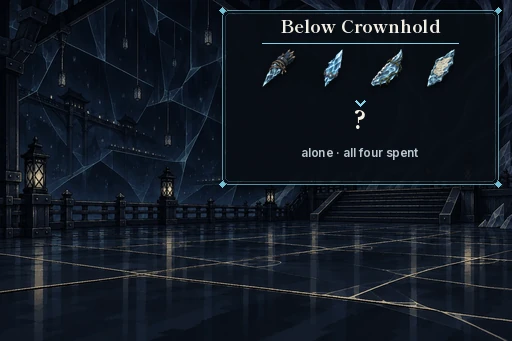
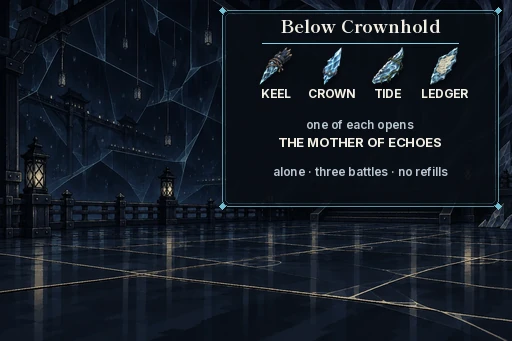
Skyglass boards Nov 13: 10-topic menu, Shore work, The Closing Hold, Below Crownhold (director approved 20:21Z)

Changed region(s): [[0.4062, 0.1466, 1.0, 0.6158], [0.8125, 0.1466, 0.9375, 0.2933], [0.5, 0.1466, 0.5938, 0.2933]]

diff --git a/art/skyglass_thread/compose_boards.py b/art/skyglass_thread/compose_boards.py
@@ -46,6 +46,8 @@ BASES = {  # board -> scene art (repo path)
     "token": SC + "exterior_keel_walk.webp",
     "salvage": SC + "cache_site.webp",
     "driftline": SC + "exterior_keel_walk.webp",
+    "shore": SC + "exterior_keel_walk.webp",
+    "closing": SC + "lower_hull.webp",
     "logboard": "crownhold/scenes/exports/scene_bg_crownhold_planning_hall.webp",  # PLACEHOLDER: TP03 Information Board
     "orders": "crownhold/scenes/exports/scene_bg_crownhold_planning_hall.webp",    # PLACEHOLDER: TP03
 }
@@ -62,6 +64,7 @@ ICON = {
     "crown": MOE + "crown.webp", "tideshard": MOE + "tide.webp", "ledgershard": MOE + "ledger.webp",
     "log": "skyglass_journal/exports/icon-quest-watch-log.webp",
     "treasury": EV + "sealed-treasury.webp", "cargo": EV + "unmarked-cargo.webp", "pouch": EV + "tool-pouch-katon.webp",
+    "nursery": EV + "glass-nursery-bk.webp",  # the Chart of the Closing Hold uses this icon (hullbound_mender.gen.py CHART_ICON)
     "jar": EV + "little-horrors-jar.webp", "salvage": EV + "wreck-salvage-bk.webp", "filament": "ghost_ship_skyglass/icon_ghost_ship_skyglass_filament.webp",
     "crystal": "ghost_ship_skyglass/icon_ghost_ship_skyglass_crystal.webp",
     "fragment": "ghost_ship_skyglass/icon_ghost_ship_skyglass_crown_fragment.webp",
@@ -142,10 +145,10 @@ class Board:
 
 
 # --- the boards (captions: one or two words, 12 px or larger) ---------------------------------------------------------
-def b_menu(b):
+def b_menu(b):  # Nov 13 v3: 10 topics (director approved 20:21Z)
     b.panel(title="Ask the salvager")
-    b.row(["log", "tide", "chest", "seal"], 46, 38, ["ABOARD", "CHARTS", "CHESTS", "DEEP"], gap=22)
-    b.row(["ledger", "salvage", "token", "log"], 126, 38, ["HAUL", "SALVAGE", "TRADE", "THE LOG"], gap=22)
+    b.row(["log", "tide", "chest", "seal", "ledger"], 48, 34, ["ABOARD", "CHARTS", "CHESTS", "DEEP", "HAUL"], gap=18)
+    b.row(["nursery", "keel", "salvage", "token", "log"], 126, 34, ["MENDER", "BELOW", "SALVAGE", "TRADE", "THE LOG"], gap=18)
 
 
 def b_threes(b):
@@ -265,12 +268,29 @@ def b_shards(b):
     b.text(b.mx, 136, "Wreck · Crownhold · deep · Haul", 12, MUTED, "Inter-600")
 
 
-def b_below(b):
-    b.panel(y1=184, title="Below Crownhold")
-    b.row(["keel", "crown", "tideshard", "ledgershard"], 48, 40, gap=14)
-    b.chevron(b.mx, 102)
-    b.big(b.mx, 110, "?", 26)
-    b.text(b.mx, 148, "alone · all four spent", 12, MUTED, "Inter-600")
+def b_below(b):  # Nov 13 v2 (director approved 20:21Z)
+    b.panel(y1=206, title="Below Crownhold")
+    b.row(["keel", "crown", "tideshard", "ledgershard"], 46, 40, ["KEEL", "CROWN", "TIDE", "LEDGER"], gap=16)
+    b.text(b.mx, 120, "one of each opens", 12, MUTED, "Inter-600")
+    b.text(b.mx, 138, "THE MOTHER OF ECHOES", 13)
+    b.text(b.mx, 166, "alone · three battles · no refills", 12, MUTED, "Inter-600")
+
+
+def b_shore(b):  # Nov 13 (director approved 20:21Z)
+    b.panel(y1=206, title="Shore work")
+    b.chip("salvage", b.mx - 20, 42, 40)
+    for i, s in enumerate(["ECHOES ASHORE · 4 fights", "WARM GLASS · the pools", "THE TIDELINE COUNT · one duel"]):
+        b.text(b.mx, 96 + i * 20, s, 12)
+    b.text(b.mx, 162, "from level 30 · 3 a day each", 12, MUTED, "Inter-600")
+    b.text(b.mx, 180, "4 salvage a run", 12, MUTED, "Inter-600")
+
+
+def b_closing(b):  # Nov 13 (director approved 20:21Z)
+    b.panel(y1=196, title="The Closing Hold")
+    b.chip("nursery", b.mx - 26, 42, 52)
+    b.text(b.mx, 110, "LEGENDARY · ALONE · FROM LEVEL 40", 12)
+    b.text(b.mx, 132, "apprentice · bilge crew · the Mender", 12, MUTED, "Inter-600")
+    b.text(b.mx, 158, "watch the seams: the hull closes in", 12, MUTED, "Inter-600")
 
 
 def b_trade(b):
@@ -329,10 +349,26 @@ BOARDS = {
     "menu": b_menu, "threes": b_threes, "hulls": b_hulls, "loot": b_loot, "once": b_once, "ladder": b_ladder,
     "pick": b_pick, "chests": b_chests, "supplies": b_supplies, "craft": b_craft, "seals": b_seals, "rot": b_rot, "lantern": b_lantern, "haul": b_haul, "shards": b_shards,
     "below": b_below, "trade": b_trade, "token": b_token, "logboard": b_logboard, "orders": b_orders, "salvage": b_salvage, "driftline": b_driftline,
+    "shore": b_shore, "closing": b_closing,
 }
+ONLY = None  # set by --only
 
 
 def main():
+    import sys
+    keys = sys.argv[sys.argv.index("--only") + 1].split(",") if "--only" in sys.argv else None
+    if keys:
+        for key in keys:
+            b = Board(key); BOARDS[key](b)
+            path = os.path.join(OUT, f"board-{key}.webp")
+            b.im.convert("RGB").save(path, "WEBP", quality=90, method=6)
+            print(f"art/skyglass_thread/exports/board-{key}.webp: {os.path.getsize(path)} bytes")
+        sheet = Image.new("RGB", (2 * (W + 4) + 4, 2 * (H + 4) + 4), (11, 15, 20))
+        for i, key in enumerate(keys[:4]):
+            r, c = divmod(i, 2)
+            sheet.paste(Image.open(os.path.join(OUT, f"board-{key}.webp")).convert("RGB"), (4 + c * (W + 4), 4 + r * (H + 4)))
+        sheet.save(os.path.join(HERE, "preview_nov13_new.png"))
+        return
     os.makedirs(OUT, exist_ok=True)
     cols = 3
     sheet = Image.new("RGB", (cols * (W + 4) + 4, ((len(BOARDS) + cols - 1) // cols) * (H + 4) + 4), (11, 15, 20))
